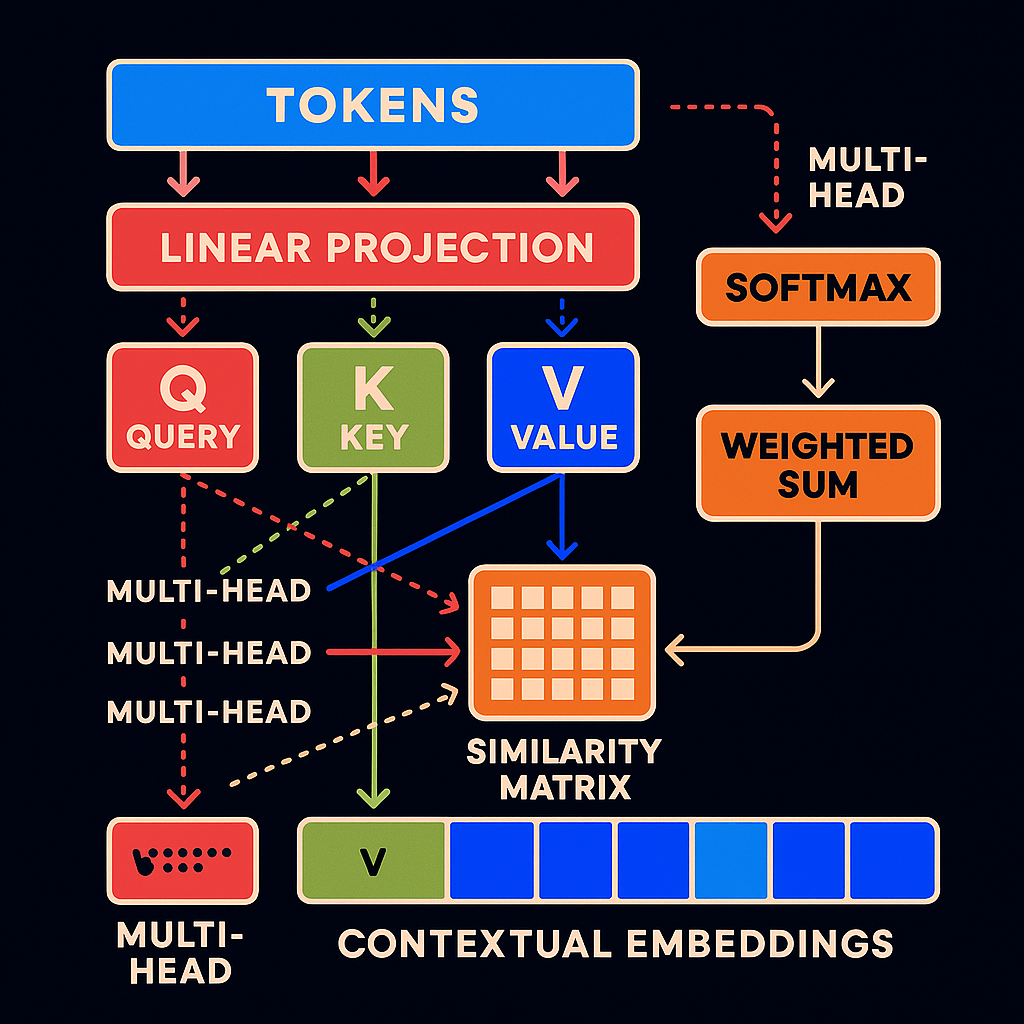
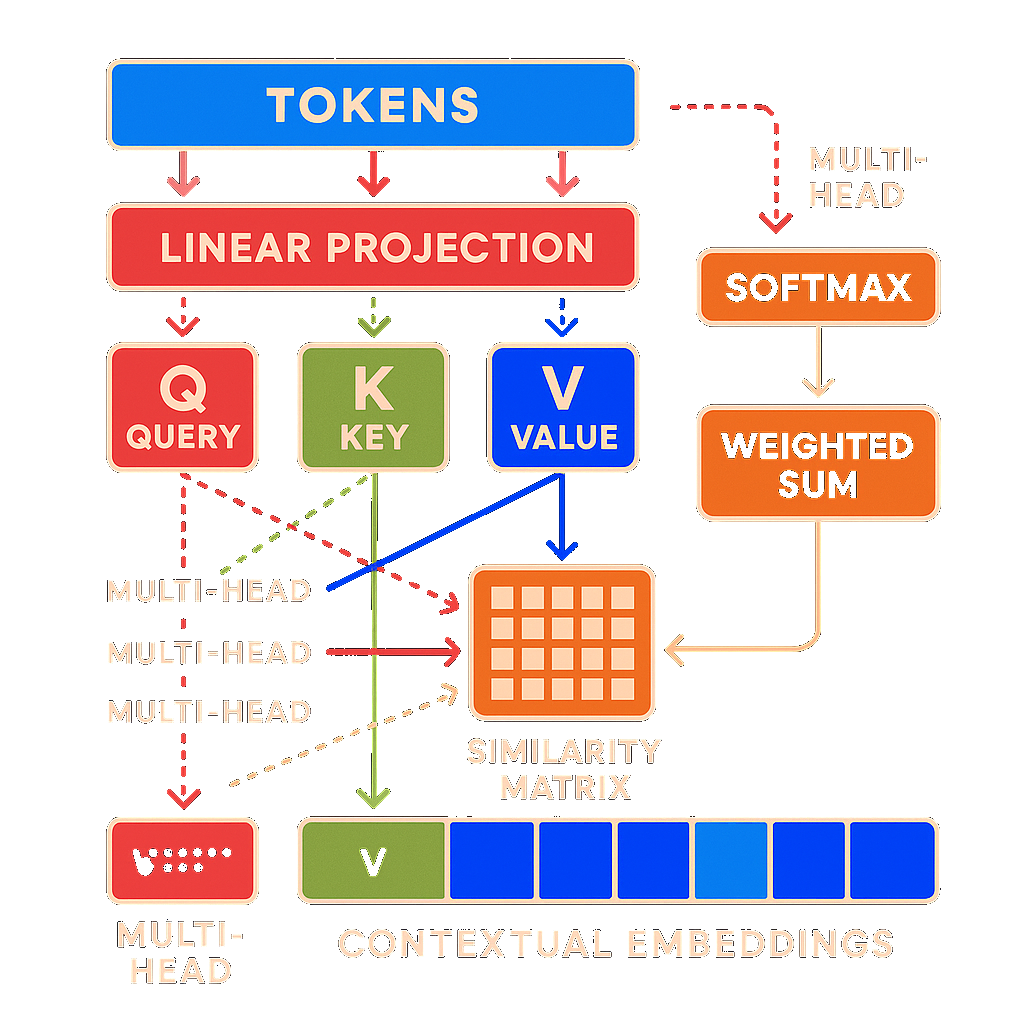
sync slides

diff --git a/slide-deck/slides/092-models.html b/slide-deck/slides/092-models.html
@@ -2,16 +2,26 @@
   
   <!-- Left Side: Content -->
   <div style="flex: 1;">
-    <div class="kicker">Model Architecture</div>
+    <div class="kicker">Models</div>
     <h2>Custom Space-then-time Windowed Attention</h2>
+    $$
+      
+      f_{\theta}:
+      \underbrace{\mathbf{S}_{t-4:t}}_{\text{5 previous states}}
+      \;\mapsto\;
+      \underbrace{\mathbf{S}_{t+1:t+5}}_{\text{5 future states}}.
+      
+    $$
   </div>
-
   <!-- Right Side: Figure (Width restricted to 45% of the slide) -->
   <figure style="flex: 0 0 45%; margin: 0; text-align: center;">
-    <img src="figs/BlockExplainerAll-alt.svg" style="width: 100%; height: auto;">
-    <figcaption style="margin-top: 15px; font-size: 14px; color: var(--ink-dim);">
-      Factorized space-then-time attention
-    </figcaption>
+    <img src="figs/BlockExplainerAll-alt.svg" style="width: 80%; height: auto;">
+  More informed on historical state
+  Efficient and suffers negligible performance loss compared to expensive full attention. 
   </figure>
+    <!-- Reference footer -->
+  <div style="width: 100%; text-align: center; font-size: 12px; color: var(--ink-dim);">
+    Source: Liu et al. (2025), <em>BCAT: A Block Causal Transformer for PDE Foundation Models for Fluid Dynamics</em>.
+  </div>
 
 </section>

diff --git a/slide-deck/slides/073-dualmodel.html b/slide-deck/slides/073-dualmodel.html
@@ -1,0 +1,26 @@
+<section class="slide">
+  <div class="kicker">Problem Formulation · Flowmatching</div>
+
+
+  <figure style="margin-top: 30px; text-align: center;">
+    <img src="figs/dual-modelling-inv.png" width="750">
+  </figure>
+
+  <div style="display: flex; justify-content: space-between; align-items: flex-start; margin-top: 40px; gap: 30px;">
+
+    <div style="flex: 1; text-align: center;">
+      <div style="font-weight: 600; margin-bottom: 10px;"></div>
+      $$\hat{\mathbf{S}}_{\text{out}} = \mathcal{M}_{\theta}(\mathbf{S}_{\text{in}})$$
+
+      $$\mathcal{L}_{\text{AR}}(\theta) = \mathbb{E}_{(\mathbf{S}_{\text{in}}, \mathbf{S}_{\text{out}}) \sim \mathcal{D}} \left[ \| \mathbf{S}_{\text{out}} - \mathcal{M}_{\theta}(\mathbf{S}_{\text{in}}) \|^2 \right]$$
+    </div>
+
+    <div style="flex: 1; text-align: center;">
+      <div style="font-weight: 600; margin-bottom: 10px;"></div>
+      $$\mathcal{M}_{\phi}(\mathbf{S}_{\text{in}}) = p(\mathbf{S}_{\text{out}} \mid \mathbf{S}_{\text{in}})$$
+
+      ?
+    </div>
+
+  </div>
+</section>

diff --git a/slide-deck/slides/077-flowmatching.html b/slide-deck/slides/077-flowmatching.html
@@ -1,11 +1,19 @@
 <section class="slide">
   <div class="kicker">Problem Formulation · Flowmatching</div>
-  <h2>Example for our case</h2>
+  <h2>Teaser</h2>
 
-  <figure style="margin-top: 30px; text-align: right;">
-    <video class="slide-video" width="400" autoplay loop muted playsinline>
-      <source src="anims/flowmatching_anim.mp4" type="video/mp4">
-      Your browser does not support the video tag.
-    </video>
-  </figure>
+  <div style="display: flex; align-items: center; gap: 50px; margin-top: 40px;">
+
+    <div style="flex: 1; text-align: left;">
+      $$x(1) = x(0) + \int_{0}^{1} v_\theta\bigl(x(t_f), t_f\bigr)\,\mathrm{d}t_f$$
+    </div>
+
+    <figure style="flex: 1; margin: 0; text-align: center;">
+      <video class="slide-video" width="500" loop muted playsinline>
+        <source src="anims/flowmatching_anim.mp4" type="video/mp4">
+        Your browser does not support the video tag.
+      </video>
+    </figure>
+
+  </div>
 </section>

diff --git a/slide-deck/slides/075-flowmatching.html b/slide-deck/slides/075-flowmatching.html
@@ -4,9 +4,8 @@
   
 
   <figure style="margin-top: 30px; text-align: center;">
-    <img src="figs/flowmatching_explainer.png" width="900">
+    <img src="figs/flowmatching_explainer.png" width="1100">
   </figure>
-  Deterministic: $$\mathcal{L}_{\text{AR}}(\theta) = \mathbb{E}_{(\mathbf{S}_{\text{in}}, \mathbf{S}_{\text{out}}) \sim \mathcal{D}} \left[ \| \mathbf{S}_{\text{out}} - f_{\theta}(\mathbf{S}_{\text{in}}) \|_2^2 \right]$$
 
-  Flowmatching: $$\mathcal{L}_{\text{FM}}(\phi) = \mathbb{E}_{\tau,\,(\mathbf{z}, \tilde{\mathbf{v}}) \sim \mathcal{D}}\left[\big\|\mathbf{v}_{\phi}(\mathbf{z}, \tau \mid \mathbf{S}_{\text{in}}) - \tilde{\mathbf{v}}(\mathbf{z}, \tau)\big\|^2\right]$$
+  $$\mathcal{L}_{\text{FM}}(\phi) = \mathbb{E}_{\tau,\,(\mathbf{z}, \tilde{\mathbf{v}}) \sim \mathcal{D}}\left[\big\|\mathbf{v}_{\phi}(\mathbf{z}, \tau \mid \mathbf{S}_{\text{in}}) - \tilde{\mathbf{v}}(\mathbf{z}, \tau)\big\|^2\right]$$
 </section>

diff --git a/slide-deck/slides/096-models.html b/slide-deck/slides/096-models.html
@@ -1,16 +1,16 @@
-<section class="slide" style="display: flex; align-items: center; justify-content: space-between; gap: 40px;">
+<section class="slide">
   
   <!-- Left Side: Content -->
   <div style="flex: 1;">
-    <div class="kicker">Model Architecture</div>
-    <h2>Flow-matching model</h2>
+    <div class="kicker">Models</div>
+    <h2>Flow-matching</h2>
   </div>
 
   <!-- Right Side: Figure -->
   <figure style="flex: 0 0 45%; margin: 0; text-align: center;">
-    <img src="figs/FM-alt.svg" style="width: 100%; height: auto;">
+    <img src="figs/FM-alt.svg" style="width: 80%; height: auto;">
     <figcaption style="margin-top: 15px; font-size: 14px; color: var(--ink-dim);">
-      Figure 1.1: FM model
+      FM model
     </figcaption>
   </figure>
 

diff --git a/slide-deck/slides/093-models.html b/slide-deck/slides/093-models.html
@@ -1,16 +1,16 @@
-<section class="slide" style="display: flex; align-items: center; justify-content: space-between; gap: 40px;">
+<section class="slide">
   
   <!-- Left Side: Content -->
   <div style="flex: 1;">
-    <div class="kicker">Model Architecture</div>
-    <h2>Shared Backbone</h2>
+    <div class="kicker">Models</div>
+    <h2>Deterministic</h2>
   </div>
 
   <!-- Right Side: Figure -->
   <figure style="flex: 0 0 45%; margin: 0; text-align: center;">
-    <img src="figs/AR-alt.svg" style="width: 100%; height: auto;">
+    <img src="figs/AR-alt.svg" style="width: 80%; height: auto;">
     <figcaption style="margin-top: 15px; font-size: 14px; color: var(--ink-dim);">
-      AR model
+      Shared backbone
     </figcaption>
   </figure>
 

diff --git a/slide-deck/slides/066-relatedcomparison.html b/slide-deck/slides/066-relatedcomparison.html
@@ -4,6 +4,7 @@
   <ul class="bullets">
     <li><b>MPP</b> <span class="dim">Multi-physics pretraining and finetuning transformer</span></li>
     <li><b>PROSE-FD</b> <span class="dim">Symbolic-injection transformer</span></li>
-    <li><b>MATEY</b> <span class="dim">Adaptive patching transformer</li>span></li>
+    <li><b>MATEY</b> <span class="dim">Adaptive patching transformer</span></li>
     <li><b>Poseidon</b> <span class="dim">Swin-Unet transformer</span></li>
+    <li><b>Gap in research</b>
 </section>

diff --git a/slide-deck/slides/090-models.html b/slide-deck/slides/090-models.html
@@ -9,7 +9,7 @@
         <li><span class="dim">Capturing distribution of future states</li>
       </ul>
     </li>
-    <li><b><span class="dim">Efficiency</b>
+    <li><b>Efficiency</b>
       <ul class="sub-bullets"> 
         <li>Computational efficiency</li>
         <li>Sample efficiency</li>
